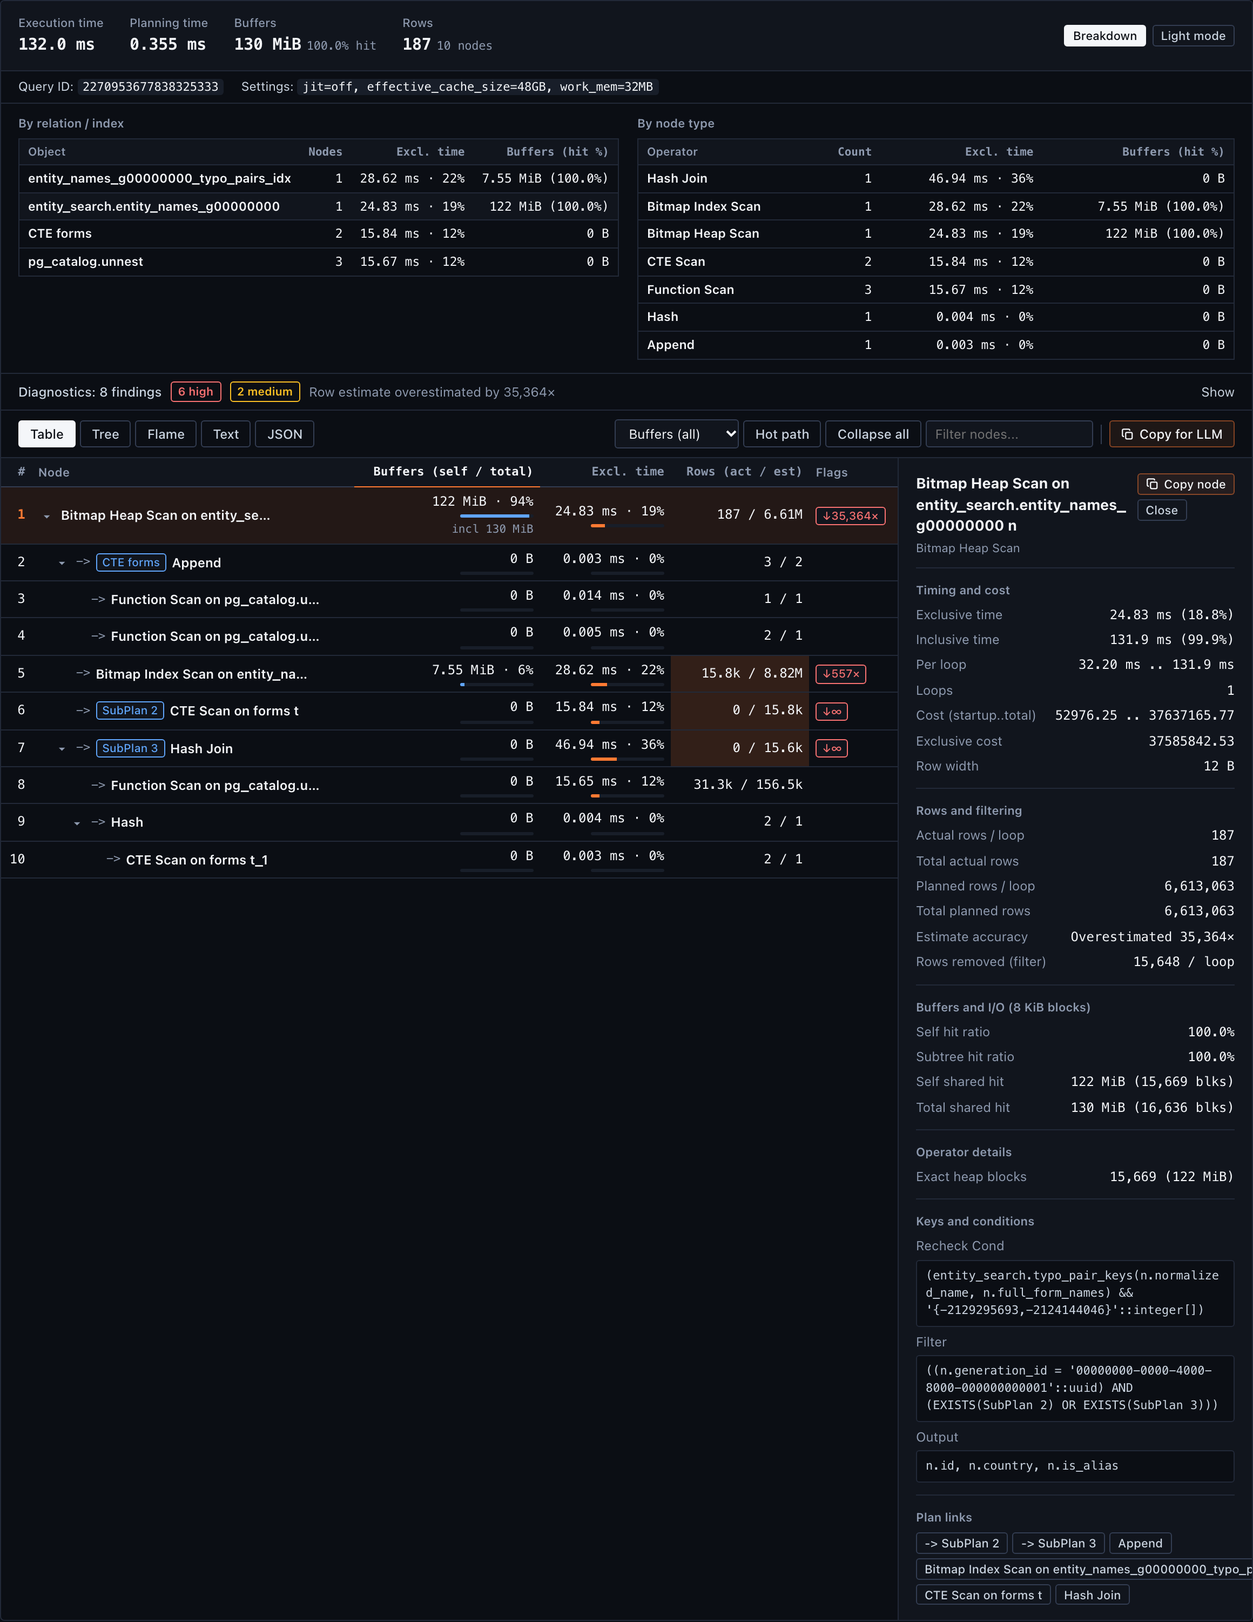
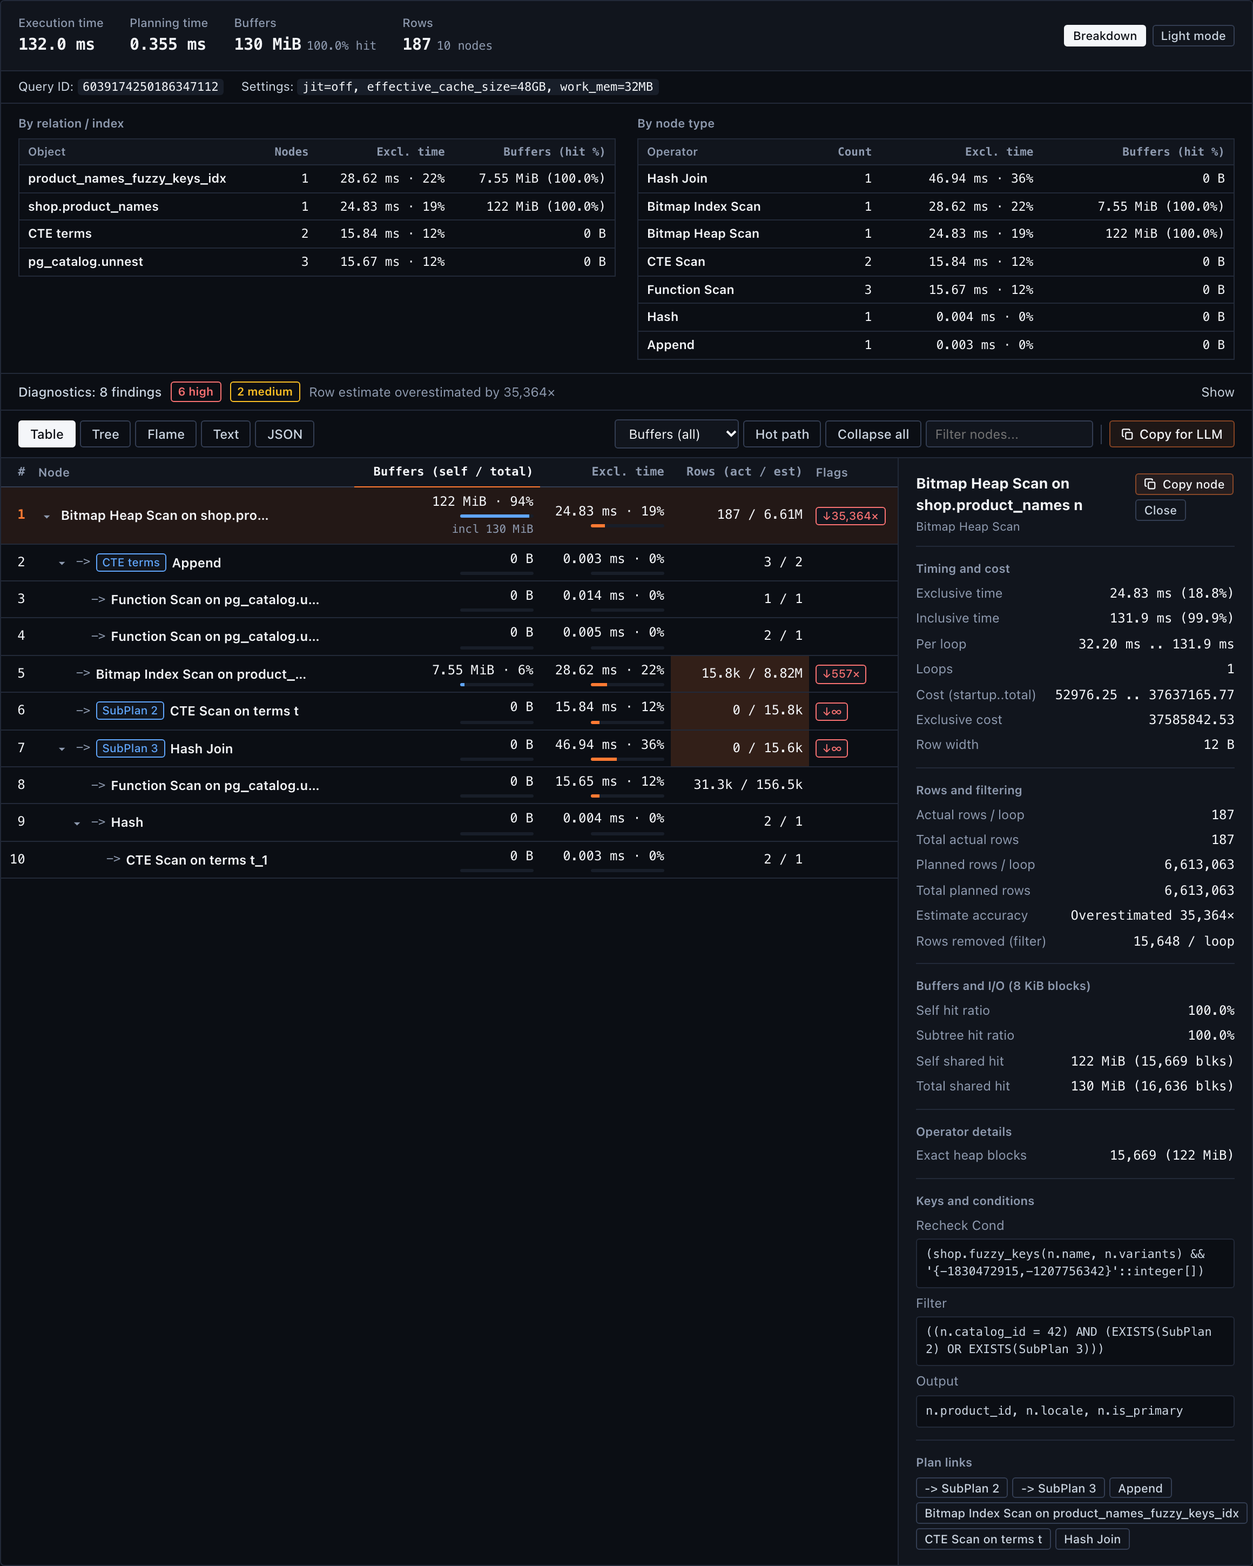
Rename the PG 17 demo sample
The sample plan now reads from shop.product_names. The test fixture is
renamed to match, and the two screenshots that show the sample are
re-shot.

Claude-Session: https://claude.ai/code/session_01Rq7zU2Qdmo93UhSvDkvNr5

diff --git a/demo/index.html b/demo/index.html
@@ -290,44 +290,44 @@
     </div>
   </details>
 
-  <pg-plan id="viewer"><pre>Bitmap Heap Scan on entity_search.entity_names_g00000000 n  (cost=52976.25..37637165.77 rows=6613063 width=12) (actual time=32.203..131.876 rows=187 loops=1)
-  Output: n.id, n.country, n.is_alias
-  Recheck Cond: (entity_search.typo_pair_keys(n.normalized_name, n.full_form_names) &amp;&amp; '{-2129295693,-2124144046}'::integer[])
-  Filter: ((n.generation_id = '00000000-0000-4000-8000-000000000001'::uuid) AND (EXISTS(SubPlan 2) OR EXISTS(SubPlan 3)))
+  <pg-plan id="viewer"><pre>Bitmap Heap Scan on shop.product_names n  (cost=52976.25..37637165.77 rows=6613063 width=12) (actual time=32.203..131.876 rows=187 loops=1)
+  Output: n.product_id, n.locale, n.is_primary
+  Recheck Cond: (shop.fuzzy_keys(n.name, n.variants) &amp;&amp; '{-1830472915,-1207756342}'::integer[])
+  Filter: ((n.catalog_id = 42) AND (EXISTS(SubPlan 2) OR EXISTS(SubPlan 3)))
   Rows Removed by Filter: 15648
   Heap Blocks: exact=15669
   Buffers: shared hit=16636
-  CTE forms
+  CTE terms
     -&gt;  Append  (cost=0.00..0.10 rows=2 width=72) (actual time=0.015..0.022 rows=3 loops=1)
           -&gt;  Function Scan on pg_catalog.unnest f  (cost=0.00..0.04 rows=1 width=72) (actual time=0.014..0.014 rows=1 loops=1)
-                Output: f.form, 'short'::text
-                Function Call: unnest('{fdtuse}'::text[])
-                Filter: ((char_length(f.form) &gt;= 3) AND (char_length(f.form) &lt;= 255))
+                Output: f.term, 'word'::text
+                Function Call: unnest('{espresso}'::text[])
+                Filter: ((char_length(f.term) &gt;= 3) AND (char_length(f.term) &lt;= 255))
           -&gt;  Function Scan on pg_catalog.unnest f_1  (cost=0.00..0.06 rows=1 width=72) (actual time=0.004..0.005 rows=2 loops=1)
-                Output: f_1.form, 'full'::text
-                Function Call: unnest('{"fdtuse inc","fdtuse incorporated"}'::text[])
-                Filter: ((char_length(f_1.form) &gt;= 3) AND (char_length(f_1.form) &lt;= 255))
-  -&gt;  Bitmap Index Scan on entity_names_g00000000_typo_pairs_idx  (cost=0.00..51322.88 rows=8817417 width=0) (actual time=28.621..28.622 rows=15835 loops=1)
-        Index Cond: (entity_search.typo_pair_keys(n.normalized_name, n.full_form_names) &amp;&amp; '{-2129295693,-2124144046}'::integer[])
+                Output: f_1.term, 'phrase'::text
+                Function Call: unnest('{"espresso machine","espresso maker"}'::text[])
+                Filter: ((char_length(f_1.term) &gt;= 3) AND (char_length(f_1.term) &lt;= 255))
+  -&gt;  Bitmap Index Scan on product_names_fuzzy_keys_idx  (cost=0.00..51322.88 rows=8817417 width=0) (actual time=28.621..28.622 rows=15835 loops=1)
+        Index Cond: (shop.fuzzy_keys(n.name, n.variants) &amp;&amp; '{-1830472915,-1207756342}'::integer[])
         Buffers: shared hit=967
   SubPlan 2
-    -&gt;  CTE Scan on forms t  (cost=0.00..0.11 rows=1 width=0) (actual time=0.001..0.001 rows=0 loops=15835)
-          Filter: ((t.edits &gt; 0) AND (t.kind = 'short'::text))
+    -&gt;  CTE Scan on terms t  (cost=0.00..0.11 rows=1 width=0) (actual time=0.001..0.001 rows=0 loops=15835)
+          Filter: ((t.max_typos &gt; 0) AND (t.kind = 'word'::text))
           Rows Removed by Filter: 3
   SubPlan 3
     -&gt;  Hash Join  (cost=0.07..0.26 rows=1 width=0) (actual time=0.004..0.004 rows=0 loops=15648)
-          Hash Cond: ("left"(ff.form, 1) = "left"(t_1.form, 1))
+          Hash Cond: ("left"(ff.term, 1) = "left"(t_1.term, 1))
           Rows Removed by Join Filter: 4
           -&gt;  Function Scan on pg_catalog.unnest ff  (cost=0.00..0.10 rows=10 width=32) (actual time=0.001..0.001 rows=2 loops=15648)
-                Output: ff.form
-                Function Call: unnest(n.full_form_names)
+                Output: ff.term
+                Function Call: unnest(n.variants)
           -&gt;  Hash  (cost=0.05..0.05 rows=1 width=40) (actual time=0.007..0.007 rows=2 loops=1)
                 Buckets: 1024  Batches: 1  Memory Usage: 9kB
-                -&gt;  CTE Scan on forms t_1  (cost=0.00..0.05 rows=1 width=40) (actual time=0.002..0.003 rows=2 loops=1)
-                      Filter: ((t_1.edits &gt; 0) AND (t_1.kind = 'full'::text))
+                -&gt;  CTE Scan on terms t_1  (cost=0.00..0.05 rows=1 width=40) (actual time=0.002..0.003 rows=2 loops=1)
+                      Filter: ((t_1.max_typos &gt; 0) AND (t_1.kind = 'phrase'::text))
                       Rows Removed by Filter: 1
 Settings: jit = 'off', effective_cache_size = '48GB', work_mem = '32MB'
-Query Identifier: 2270953677838325333
+Query Identifier: 6039174250186347112
 Planning:
   Buffers: shared hit=1
 Planning Time: 0.355 ms
@@ -387,46 +387,46 @@ if(typeof globalThis!=="undefined")globalThis.PGPrism=pgprism;
 (function () {
   const SAMPLES = [
     {
-      id: 'pg17-wave1a',
-      label: 'PG 17 · Wave 1a fuzzy search (text)',
-      plan: `Bitmap Heap Scan on entity_search.entity_names_g00000000 n  (cost=52976.25..37637165.77 rows=6613063 width=12) (actual time=32.203..131.876 rows=187 loops=1)
-  Output: n.id, n.country, n.is_alias
-  Recheck Cond: (entity_search.typo_pair_keys(n.normalized_name, n.full_form_names) && '{-2129295693,-2124144046}'::integer[])
-  Filter: ((n.generation_id = '00000000-0000-4000-8000-000000000001'::uuid) AND (EXISTS(SubPlan 2) OR EXISTS(SubPlan 3)))
+      id: 'pg17-bitmap-subplans',
+      label: 'PG 17 · Bitmap scan, SubPlans (text)',
+      plan: `Bitmap Heap Scan on shop.product_names n  (cost=52976.25..37637165.77 rows=6613063 width=12) (actual time=32.203..131.876 rows=187 loops=1)
+  Output: n.product_id, n.locale, n.is_primary
+  Recheck Cond: (shop.fuzzy_keys(n.name, n.variants) && '{-1830472915,-1207756342}'::integer[])
+  Filter: ((n.catalog_id = 42) AND (EXISTS(SubPlan 2) OR EXISTS(SubPlan 3)))
   Rows Removed by Filter: 15648
   Heap Blocks: exact=15669
   Buffers: shared hit=16636
-  CTE forms
+  CTE terms
     ->  Append  (cost=0.00..0.10 rows=2 width=72) (actual time=0.015..0.022 rows=3 loops=1)
           ->  Function Scan on pg_catalog.unnest f  (cost=0.00..0.04 rows=1 width=72) (actual time=0.014..0.014 rows=1 loops=1)
-                Output: f.form, 'short'::text
-                Function Call: unnest('{fdtuse}'::text[])
-                Filter: ((char_length(f.form) >= 3) AND (char_length(f.form) <= 255))
+                Output: f.term, 'word'::text
+                Function Call: unnest('{espresso}'::text[])
+                Filter: ((char_length(f.term) >= 3) AND (char_length(f.term) <= 255))
           ->  Function Scan on pg_catalog.unnest f_1  (cost=0.00..0.06 rows=1 width=72) (actual time=0.004..0.005 rows=2 loops=1)
-                Output: f_1.form, 'full'::text
-                Function Call: unnest('{"fdtuse inc","fdtuse incorporated"}'::text[])
-                Filter: ((char_length(f_1.form) >= 3) AND (char_length(f_1.form) <= 255))
-  ->  Bitmap Index Scan on entity_names_g00000000_typo_pairs_idx  (cost=0.00..51322.88 rows=8817417 width=0) (actual time=28.621..28.622 rows=15835 loops=1)
-        Index Cond: (entity_search.typo_pair_keys(n.normalized_name, n.full_form_names) && '{-2129295693,-2124144046}'::integer[])
+                Output: f_1.term, 'phrase'::text
+                Function Call: unnest('{"espresso machine","espresso maker"}'::text[])
+                Filter: ((char_length(f_1.term) >= 3) AND (char_length(f_1.term) <= 255))
+  ->  Bitmap Index Scan on product_names_fuzzy_keys_idx  (cost=0.00..51322.88 rows=8817417 width=0) (actual time=28.621..28.622 rows=15835 loops=1)
+        Index Cond: (shop.fuzzy_keys(n.name, n.variants) && '{-1830472915,-1207756342}'::integer[])
         Buffers: shared hit=967
   SubPlan 2
-    ->  CTE Scan on forms t  (cost=0.00..0.11 rows=1 width=0) (actual time=0.001..0.001 rows=0 loops=15835)
-          Filter: ((t.edits > 0) AND (t.kind = 'short'::text))
+    ->  CTE Scan on terms t  (cost=0.00..0.11 rows=1 width=0) (actual time=0.001..0.001 rows=0 loops=15835)
+          Filter: ((t.max_typos > 0) AND (t.kind = 'word'::text))
           Rows Removed by Filter: 3
   SubPlan 3
     ->  Hash Join  (cost=0.07..0.26 rows=1 width=0) (actual time=0.004..0.004 rows=0 loops=15648)
-          Hash Cond: ("left"(ff.form, 1) = "left"(t_1.form, 1))
+          Hash Cond: ("left"(ff.term, 1) = "left"(t_1.term, 1))
           Rows Removed by Join Filter: 4
           ->  Function Scan on pg_catalog.unnest ff  (cost=0.00..0.10 rows=10 width=32) (actual time=0.001..0.001 rows=2 loops=15648)
-                Output: ff.form
-                Function Call: unnest(n.full_form_names)
+                Output: ff.term
+                Function Call: unnest(n.variants)
           ->  Hash  (cost=0.05..0.05 rows=1 width=40) (actual time=0.007..0.007 rows=2 loops=1)
                 Buckets: 1024  Batches: 1  Memory Usage: 9kB
-                ->  CTE Scan on forms t_1  (cost=0.00..0.05 rows=1 width=40) (actual time=0.002..0.003 rows=2 loops=1)
-                      Filter: ((t_1.edits > 0) AND (t_1.kind = 'full'::text))
+                ->  CTE Scan on terms t_1  (cost=0.00..0.05 rows=1 width=40) (actual time=0.002..0.003 rows=2 loops=1)
+                      Filter: ((t_1.max_typos > 0) AND (t_1.kind = 'phrase'::text))
                       Rows Removed by Filter: 1
 Settings: jit = 'off', effective_cache_size = '48GB', work_mem = '32MB'
-Query Identifier: 2270953677838325333
+Query Identifier: 6039174250186347112
 Planning:
   Buffers: shared hit=1
 Planning Time: 0.355 ms

diff --git a/test/parser-json-text.test.ts b/test/parser-json-text.test.ts
@@ -1,10 +1,7 @@
 import test from 'node:test';
 import assert from 'node:assert/strict';
-import { existsSync, readFileSync } from 'node:fs';
 import { parsePlan } from '../src/parser';
-import { WAVE1A_SAMPLE } from './wave1a-fixture';
-
-const WAVE1A_SUMMARY = '/Users/nik/tmp/forge-tradeverifyd-w0/cases/tradeverifyd-search-pg17-01/runs/wave1a_61m/wave1a_summary.json';
+import { BITMAP_SUBPLANS_SAMPLE } from './bitmap-subplans-fixture';
 
 test('PG 15 JSON plan: legacy I/O timings, JIT, Memoize, Triggers, Settings, negative 64-bit Query ID', () => {
   const pg15 = JSON.stringify([
@@ -68,7 +65,7 @@ test('PG 15 JSON plan: legacy I/O timings, JIT, Memoize, Triggers, Settings, neg
           },
         ],
       },
-      'Query Identifier': -8378418432840199008,
+      'Query Identifier': -7310968812554926703,
       'Planning Time': 1.25,
       Triggers: [{ 'Trigger Name': 'audit_trg', Relation: 'orders', Time: 0.45, Calls: 5 }],
       JIT: {
@@ -79,12 +76,12 @@ test('PG 15 JSON plan: legacy I/O timings, JIT, Memoize, Triggers, Settings, neg
       Settings: { work_mem: '32MB', jit: 'on' },
       'Execution Time': 15.1,
     },
-  ]).replace(/-837841843284019900\d/g, '-8378418432840199008');
+  ]).replace(/-731096881255492\d{4}/g, '-7310968812554926703');
 
   // Test raw JSON string with exact 64-bit integer literal
-  const pg15WithRawQid = pg15.replace('"Execution Time":15.1', '"Query Identifier":-8378418432840199008,"Execution Time":15.1');
+  const pg15WithRawQid = pg15.replace('"Execution Time":15.1', '"Query Identifier":-7310968812554926703,"Execution Time":15.1');
   const parsed = parsePlan(pg15WithRawQid);
-  assert.equal(parsed.queryIdentifier, '-8378418432840199008');
+  assert.equal(parsed.queryIdentifier, '-7310968812554926703');
   assert.equal(parsed.planningTimeMs, 1.25);
   assert.equal(parsed.executionTimeMs, 15.1);
   assert.equal(parsed.triggers.length, 1);
@@ -404,31 +401,17 @@ test('PG 19 JSON & TEXT: Replaces, WAL FPI Bytes, Memoize Estimates, EXPLAIN (IO
   assert.equal(res.replaces, 'Scan on dummy');
 });
 
-test('Real Wave 1a explains from wave1a_summary.json parse cleanly', () => {
-  const plans = existsSync(WAVE1A_SUMMARY)
-    ? (() => {
-        const summary = JSON.parse(readFileSync(WAVE1A_SUMMARY, 'utf8'));
-        for (const cat of ['exact', 'typo', 'multi-word']) {
-          const entry = summary.explains[cat];
-          const p2 = parsePlan(entry.stage2_pattern_explain);
-          assert.equal(p2.plan.nodeType, 'Limit');
-          assert.equal(p2.queryIdentifier, '-8378418432840199008');
-          assert.ok(p2.executionTimeMs && p2.executionTimeMs > 0);
-        }
-        return ['exact', 'typo', 'multi-word'].map((c) => summary.explains[c].stage3a_v6_2k_explain);
-      })()
-    : [WAVE1A_SAMPLE];
-
-  for (const raw of plans) {
-    const p3 = parsePlan(raw);
-    assert.equal(p3.plan.nodeType, 'Bitmap Heap Scan');
-    assert.ok(p3.plan.plans.some((c) => c.subplanName === 'CTE forms'));
-    assert.ok(p3.plan.plans.some((c) => c.subplanName === 'SubPlan 2'));
-    assert.ok(p3.plan.plans.some((c) => c.subplanName === 'SubPlan 3'));
-    assert.ok(p3.plan.exclusiveTimeMs > 0);
-    assert.ok(p3.plan.totalBufferBlocks > 8000);
-    assert.ok(p3.plan.rowEstimateFactor > 10000);
-  }
+test('PG 17 text plan with a CTE, SubPlans, and a bitmap scan parses cleanly', () => {
+  const p = parsePlan(BITMAP_SUBPLANS_SAMPLE);
+  assert.equal(p.plan.nodeType, 'Bitmap Heap Scan');
+  assert.equal(p.queryIdentifier, '6039174250186347112');
+  assert.ok(p.executionTimeMs && p.executionTimeMs > 0);
+  assert.ok(p.plan.plans.some((c) => c.subplanName === 'CTE terms'));
+  assert.ok(p.plan.plans.some((c) => c.subplanName === 'SubPlan 2'));
+  assert.ok(p.plan.plans.some((c) => c.subplanName === 'SubPlan 3'));
+  assert.ok(p.plan.exclusiveTimeMs > 0);
+  assert.ok(p.plan.totalBufferBlocks > 8000);
+  assert.ok(p.plan.rowEstimateFactor > 10000);
 });
 
 test('Error handling for empty and malformed inputs', () => {

diff --git a/test/bitmap-subplans-fixture.ts b/test/bitmap-subplans-fixture.ts
@@ -1,0 +1,42 @@
+export const BITMAP_SUBPLANS_SAMPLE = `Bitmap Heap Scan on shop.product_names n  (cost=52976.25..37637165.77 rows=6613063 width=12) (actual time=32.203..131.876 rows=187 loops=1)
+  Output: n.product_id, n.locale, n.is_primary
+  Recheck Cond: (shop.fuzzy_keys(n.name, n.variants) && '{-1830472915,-1207756342}'::integer[])
+  Filter: ((n.catalog_id = 42) AND (EXISTS(SubPlan 2) OR EXISTS(SubPlan 3)))
+  Rows Removed by Filter: 15648
+  Heap Blocks: exact=15669
+  Buffers: shared hit=16636
+  CTE terms
+    ->  Append  (cost=0.00..0.10 rows=2 width=72) (actual time=0.015..0.022 rows=3 loops=1)
+          ->  Function Scan on pg_catalog.unnest f  (cost=0.00..0.04 rows=1 width=72) (actual time=0.014..0.014 rows=1 loops=1)
+                Output: f.term, 'word'::text
+                Function Call: unnest('{espresso}'::text[])
+                Filter: ((char_length(f.term) >= 3) AND (char_length(f.term) <= 255))
+          ->  Function Scan on pg_catalog.unnest f_1  (cost=0.00..0.06 rows=1 width=72) (actual time=0.004..0.005 rows=2 loops=1)
+                Output: f_1.term, 'phrase'::text
+                Function Call: unnest('{"espresso machine","espresso maker"}'::text[])
+                Filter: ((char_length(f_1.term) >= 3) AND (char_length(f_1.term) <= 255))
+  ->  Bitmap Index Scan on product_names_fuzzy_keys_idx  (cost=0.00..51322.88 rows=8817417 width=0) (actual time=28.621..28.622 rows=15835 loops=1)
+        Index Cond: (shop.fuzzy_keys(n.name, n.variants) && '{-1830472915,-1207756342}'::integer[])
+        Buffers: shared hit=967
+  SubPlan 2
+    ->  CTE Scan on terms t  (cost=0.00..0.11 rows=1 width=0) (actual time=0.001..0.001 rows=0 loops=15835)
+          Filter: ((t.max_typos > 0) AND (t.kind = 'word'::text))
+          Rows Removed by Filter: 3
+  SubPlan 3
+    ->  Hash Join  (cost=0.07..0.26 rows=1 width=0) (actual time=0.004..0.004 rows=0 loops=15648)
+          Hash Cond: ("left"(ff.term, 1) = "left"(t_1.term, 1))
+          Rows Removed by Join Filter: 4
+          ->  Function Scan on pg_catalog.unnest ff  (cost=0.00..0.10 rows=10 width=32) (actual time=0.001..0.001 rows=2 loops=15648)
+                Output: ff.term
+                Function Call: unnest(n.variants)
+          ->  Hash  (cost=0.05..0.05 rows=1 width=40) (actual time=0.007..0.007 rows=2 loops=1)
+                Buckets: 1024  Batches: 1  Memory Usage: 9kB
+                ->  CTE Scan on terms t_1  (cost=0.00..0.05 rows=1 width=40) (actual time=0.002..0.003 rows=2 loops=1)
+                      Filter: ((t_1.max_typos > 0) AND (t_1.kind = 'phrase'::text))
+                      Rows Removed by Filter: 1
+Settings: jit = 'off', effective_cache_size = '48GB', work_mem = '32MB'
+Query Identifier: 6039174250186347112
+Planning:
+  Buffers: shared hit=1
+Planning Time: 0.355 ms
+Execution Time: 131.964 ms`;

diff --git a/test/auto-attach-analysis.test.ts b/test/auto-attach-analysis.test.ts
@@ -1,6 +1,5 @@
 import test from 'node:test';
 import assert from 'node:assert/strict';
-import { existsSync, readFileSync } from 'node:fs';
 import {
   analyzePlan,
   formatForLLM,
@@ -14,9 +13,7 @@ import {
   resolveInitialTheme,
   resolveThemeFromBackgroundLayers,
 } from '../src/ui/render';
-import { WAVE1A_SAMPLE } from './wave1a-fixture';
-
-const WAVE1A_SUMMARY = '/Users/nik/tmp/forge-tradeverifyd-w0/cases/tradeverifyd-search-pg17-01/runs/wave1a_61m/wave1a_summary.json';
+import { BITMAP_SUBPLANS_SAMPLE } from './bitmap-subplans-fixture';
 
 test('isLikelyExplainPlan accepts JSON/TEXT plans and rejects arbitrary SQL, JSON, and prose', () => {
   assert.equal(isLikelyExplainPlan('SELECT id, name FROM users WHERE active = true;'), false);
@@ -45,14 +42,12 @@ test('isLikelyExplainPlan accepts JSON/TEXT plans and rejects arbitrary SQL, JSO
 });
 
 test('analyzePlan aggregates byRelation, byNodeType, CPU* vs I/O split, buffer hit %, and SubPlan targets', () => {
-  const wavePlan = existsSync(WAVE1A_SUMMARY)
-    ? JSON.parse(readFileSync(WAVE1A_SUMMARY, 'utf8')).explains.exact.stage3a_v6_2k_explain
-    : WAVE1A_SAMPLE;
-  const analysis = analyzePlan(wavePlan);
+  const samplePlan = BITMAP_SUBPLANS_SAMPLE;
+  const analysis = analyzePlan(samplePlan);
 
   assert.ok(analysis.diagnostics.length > 0);
   assert.ok(analysis.bufferHitPercent !== null && analysis.bufferHitPercent > 90);
-  assert.ok(analysis.byRelation.some((r) => r.name.includes('entity_names_g00000000')));
+  assert.ok(analysis.byRelation.some((r) => r.name.includes('product_names')));
   assert.ok(analysis.byNodeType.some((t) => t.nodeType === 'Bitmap Heap Scan'));
   assert.ok(analysis.parsed.subplanTargets['SubPlan 2']);
   assert.ok(analysis.parsed.subplanTargets['SubPlan 3']);
@@ -86,7 +81,7 @@ test('analyzePlan aggregates byRelation, byNodeType, CPU* vs I/O split, buffer h
   assert.equal(Math.round(ioAnalysis.bufferHitPercent!), 80);
   assert.equal(typeof jsonToText(ioPlan), 'string');
 
-  const md = formatForLLM(wavePlan);
+  const md = formatForLLM(samplePlan);
   assert.match(md, /# PostgreSQL execution plan summary/);
   assert.match(md, /## Findings/);
   assert.match(md, /## Top relations \/ indexes/);

diff --git a/test/diagnostics-units.test.ts b/test/diagnostics-units.test.ts
@@ -1,12 +1,9 @@
 import test from 'node:test';
 import assert from 'node:assert/strict';
-import { existsSync, readFileSync } from 'node:fs';
 import { diagnosePlan } from '../src/diagnostics';
 import { parsePlan } from '../src/parser';
 import { blocksToBytes, formatBlocks, formatBytes, formatFactor } from '../src/units';
-import { WAVE1A_SAMPLE } from './wave1a-fixture';
-
-const WAVE1A_SUMMARY = '/Users/nik/tmp/forge-tradeverifyd-w0/cases/tradeverifyd-search-pg17-01/runs/wave1a_61m/wave1a_summary.json';
+import { BITMAP_SUBPLANS_SAMPLE } from './bitmap-subplans-fixture';
 
 test('IEC binary units and 8 KiB block formatting', () => {
   assert.equal(blocksToBytes(1), 8192);
@@ -19,11 +16,8 @@ test('IEC binary units and 8 KiB block formatting', () => {
   assert.equal(formatFactor(3.25), '3.3×');
 });
 
-test('Diagnostics engine flags spills, lossy bitmaps, disabled nodes, misestimates, and Wave 1a hotspots', () => {
-  const wavePlan = existsSync(WAVE1A_SUMMARY)
-    ? JSON.parse(readFileSync(WAVE1A_SUMMARY, 'utf8')).explains.exact.stage3a_v6_2k_explain
-    : WAVE1A_SAMPLE;
-  const p = parsePlan(wavePlan);
+test('Diagnostics engine flags spills, lossy bitmaps, disabled nodes, misestimates, and filter discards', () => {
+  const p = parsePlan(BITMAP_SUBPLANS_SAMPLE);
   const diags = diagnosePlan(p);
   assert.ok(diags.some((d) => d.code === 'row-misestimate' && d.severity === 'high'));
   assert.ok(diags.some((d) => d.code === 'filter-discard' && d.severity === 'high'));

diff --git a/test/json-to-text.test.ts b/test/json-to-text.test.ts
@@ -109,7 +109,7 @@ test('jsonToText handles PG 17-19 features accurately and round-trips through pa
 
   const rawComplex = JSON.stringify(complex).replace(
     '"Planning Time":0.321',
-    '"Query Identifier":-8378418432840199008,"Planning Time":0.321'
+    '"Query Identifier":-7310968812554926703,"Planning Time":0.321'
   );
   const text = jsonToText(rawComplex);
   assert.ok(text.includes('Window: w AS (ORDER BY a)'));
@@ -119,7 +119,7 @@ test('jsonToText handles PG 17-19 features accurately and round-trips through pa
   assert.ok(text.includes('Subquery Scan on "left"'));
   assert.ok(text.includes('rows=0.50 loops=2'));
   assert.ok(text.includes('Disabled: true'));
-  assert.ok(text.includes('Query Identifier: -8378418432840199008'));
+  assert.ok(text.includes('Query Identifier: -7310968812554926703'));
   assert.ok(text.includes('Memory: used=64kB  allocated=128kB'));
   assert.ok(text.includes('Serialization: time=0.444 ms  output=12kB  format=binary'));
 
@@ -137,5 +137,5 @@ test('jsonToText handles PG 17-19 features accurately and round-trips through pa
   assert.equal(rt.plan.plans[0]?.actualRows, 0.5);
   assert.equal(rt.planning?.memoryUsedKb, 64);
   assert.equal(rt.serialization?.outputKb, 12);
-  assert.equal(rt.queryIdentifier, '-8378418432840199008');
+  assert.equal(rt.queryIdentifier, '-7310968812554926703');
 });
